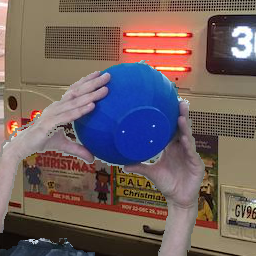
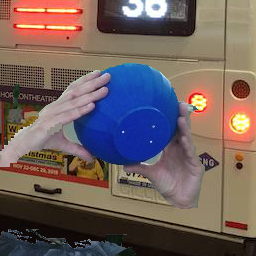
grabcut mask refinement for background randomization

diff --git a/scripts/preprocess_images.py b/scripts/preprocess_images.py
@@ -17,8 +17,8 @@ osp = os.path
 
 
 def preprocess(p_num, intent, object_name, background_images_dir, crop_size,
-               do_rgb=True, do_depth=True, depth_percentile_thresh=30,
-               mask_dilation=5):
+               do_rgb=True, do_depth=True, do_grabcut=True,
+               depth_percentile_thresh=30, mask_dilation=5):
   print('Inspecting background images directory...')
   rim_filenames = next(os.walk(background_images_dir))[-1]
   rim_filenames = [osp.join(background_images_dir, f) for f in rim_filenames]
@@ -58,6 +58,23 @@ def preprocess(p_num, intent, object_name, background_images_dir, crop_size,
       A = np.asarray([[1, 0, -crop_tl[0]], [0, 1, -crop_tl[1]], [0, 0, 1]]) @ A
       cTo = cp.object_pose(camera_name, frame_idx)
       P = this_A @ K @ cTo[:3]
+      
+      if do_depth: # save preprocessed depth image
+        filename = osp.join(output_dir, 'depth', out_filename)
+        cv2.imwrite(filename, depth_im)
+      # save projection matrix
+      filename = osp.join(output_dir, 'projections',
+                          out_filename.replace('.png', '_P.txt'))
+      np.savetxt(filename, P)
+      # save projection information
+      filename = osp.join(output_dir, 'projections',
+                          out_filename.replace('.png', '_verts.npy'))
+      idx = np.where(visible)[0]
+      projs = np.vstack((cxx[idx].T, idx)).T
+      np.save(filename, projs)
+    
+      if not do_rgb:
+        continue
 
       # foreground mask
       cxx, visible = renderer.object_visibility_and_projections(cTo)
@@ -79,44 +96,41 @@ def preprocess(p_num, intent, object_name, background_images_dir, crop_size,
         print('Depth image {:s} all 0s, skipping frame'.format(filename))
         continue
       thresh = min(pthresh, mthresh)
-      mask = 255 * np.logical_and(depth_im > 0, depth_im <= thresh)
-      mask = cv2.dilate(mask.astype(np.uint8), np.ones(
+
+      # mask derived from depth
+      dmask = 255 * np.logical_and(depth_im > 0, depth_im <= thresh)
+      dmask = cv2.dilate(dmask.astype(np.uint8), np.ones(
           (mask_dilation, mask_dilation), dtype=np.uint8))
+      # mask derived from color
       cmask_green = np.logical_and(rgb_im[:, :, 1] > rgb_im[:, :, 0],
                                     rgb_im[:, :, 1] > rgb_im[:, :, 2])
       cmask_white = np.mean(rgb_im, axis=2) > 225
       cmask = np.logical_not(np.logical_or(cmask_green, cmask_white))
-      mask = np.logical_and(mask>0, cmask)
-      mask = mask[:, :, np.newaxis] > 0
+      mask = np.logical_and(dmask>0, cmask)
+      if do_grabcut:
+        mask = mutils.grabcut_mask(rgb_im, mask)
 
       # randomize background
-      while True:
+      count = 0
+      while count < len(rim_filenames):
         random_idx = np.random.choice(len(rim_filenames))
         random_im = cv2.imread(rim_filenames[random_idx], cv2.IMREAD_COLOR)
         if np.any(np.asarray(random_im.shape[:2]) <= np.asarray(rgb_im.shape[:2])):
+          count += 1
           continue
         x = np.random.choice(random_im.shape[1] - rgb_im.shape[1])
         y = np.random.choice(random_im.shape[0] - rgb_im.shape[0])
         random_im = random_im[y:y+rgb_im.shape[0], x:x+rgb_im.shape[1], :]
         break
+      else:
+        print('ERROR: All random images are smaller than {:d}x{:d}!'.
+              format(crop_size, crop_size))
+        break
       
-      if do_rgb:  # save preprocessed RGB image
-        im = mask*rgb_im + (1-mask)*random_im
-        filename = osp.join(output_dir, 'color', out_filename)
-        cv2.imwrite(filename, im)
-      if do_depth: # save preprocessed depth image
-        filename = osp.join(output_dir, 'depth', out_filename)
-        cv2.imwrite(filename, depth_im)
-      # save projection matrix
-      filename = osp.join(output_dir, 'projections',
-                          out_filename.replace('.png', '_P.txt'))
-      np.savetxt(filename, P)
-      # save projection information
-      filename = osp.join(output_dir, 'projections',
-                          out_filename.replace('.png', '_verts.npy'))
-      idx = np.where(visible)[0]
-      projs = np.vstack((cxx[idx].T, idx)).T
-      np.save(filename, projs)
+      mask = mask[:, :, np.newaxis]
+      im = mask*rgb_im + (1-mask)*random_im
+      filename = osp.join(output_dir, 'color', out_filename)
+      cv2.imwrite(filename, im)
       
 
 if __name__ == '__main__':
@@ -126,5 +140,7 @@ if __name__ == '__main__':
   parser.add_argument('--background_images_dir', required=True,
                       help='Directory containing background images e.g. COCO')
   parser.add_argument('--crop_size', default=256, type=int)
+  parser.add_argument('--no_refinement', action='store_false', dest='do_grabcut',
+                      help='No refinement of masks with GrabCut')
   args = parser.parse_args()
   preprocess(**vars(args))

diff --git a/utilities/misc.py b/utilities/misc.py
@@ -431,3 +431,24 @@ def load_mano_meshes(params, model_dicts, oTh=(np.eye(4), np.eye(4)),
       'faces': np.asarray(m.f),
     })
   return out
+
+
+def grabcut_mask(src, mask, n_iters=10):
+  """
+  Refines noisy mask edges using Grabcut on image src
+  """
+  assert(src.shape[:2] == mask.shape[:2])
+  y, x = np.where(mask)
+  gmask = np.zeros((src.shape[0], src.shape[1]), dtype=np.uint8)  # GC_BGD
+  gmask[y.min():y.max()+1, x.min():x.max()+1] = 2  # GC_PR_BGD
+  gmask[y, x] = 3  # GC_PR_FGD
+
+  bgdModel = np.zeros((1,65),np.float64)
+  fgdModel = np.zeros((1,65),np.float64)
+
+  gmask, bgdModel, fgdModel = \
+      cv2.grabCut(src, gmask, (0, 0, 0, 0), bgdModel, fgdModel, n_iters,
+                  mode=cv2.GC_INIT_WITH_MASK)
+
+  mask = np.logical_or(gmask==1, gmask==3)
+  return mask

diff --git a/README.md b/README.md
@@ -41,7 +41,7 @@ year = {2020}
 - [x] [Code for cropping images around hand-object](demo.ipynb)
 - [x] [Release contact modeling ML code](https://github.com/samarth-robo/ContactPose-ML)
 - [ ] Release data analysis and MANO fitting code
-- [x] [RGB-D image background randomization support](docs/doc.md#image-preprocessing)
+- [x] [RGB-D image background randomization support](docs/doc.md#image-preprocessing) (**new**)
 - [ ] Release ROS code used for recording the dataset
-- [x] [MANO and object mesh rendering](docs/rendering.md) (**new**)
+- [x] [MANO and object mesh rendering](docs/rendering.md)
 - [ ] Documentation using [Read the Docs](https://readthedocs.org)
